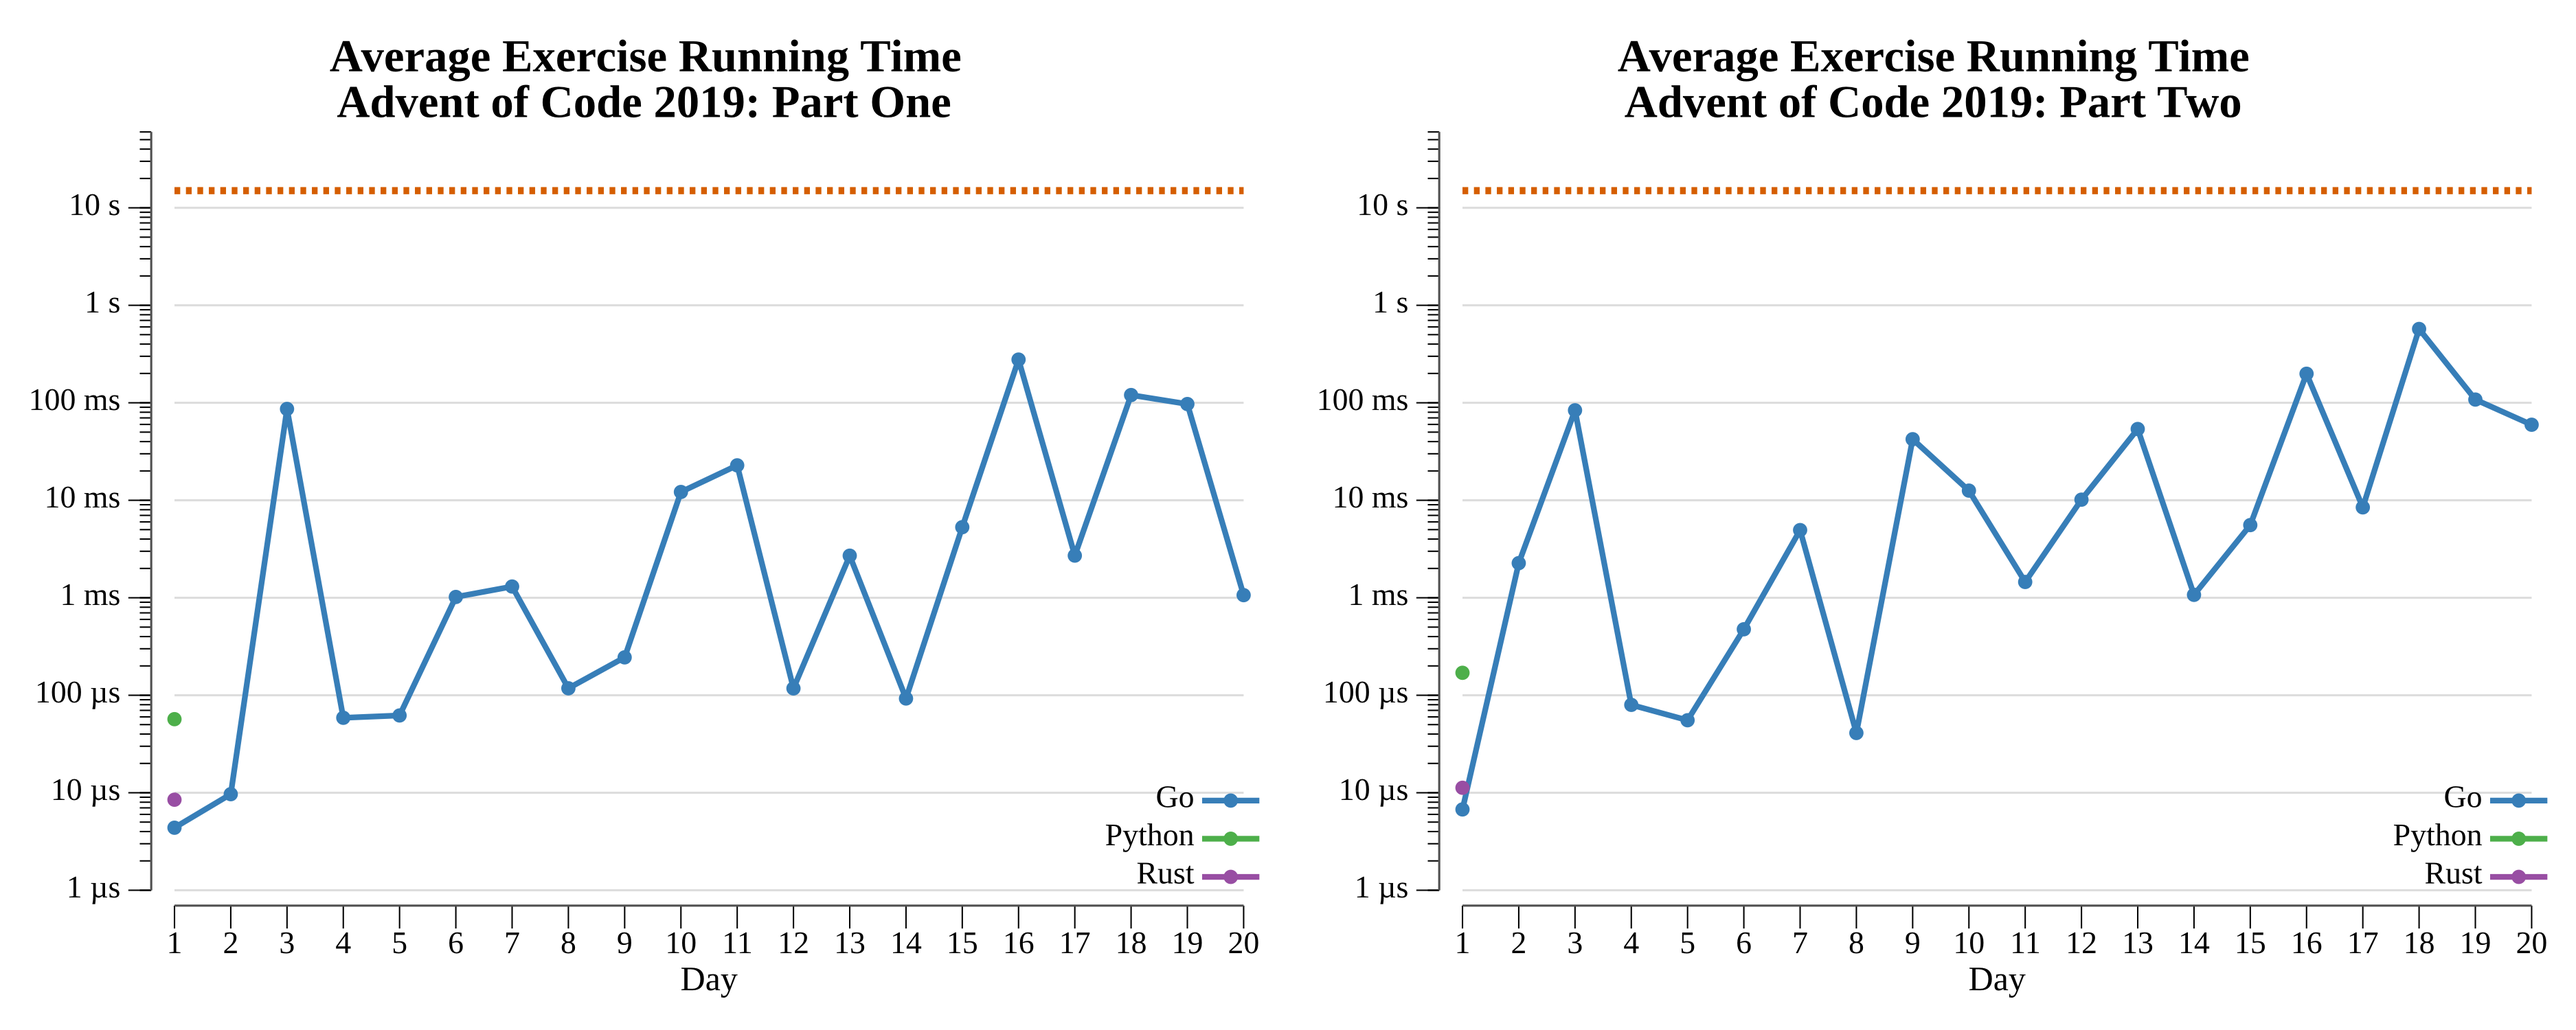
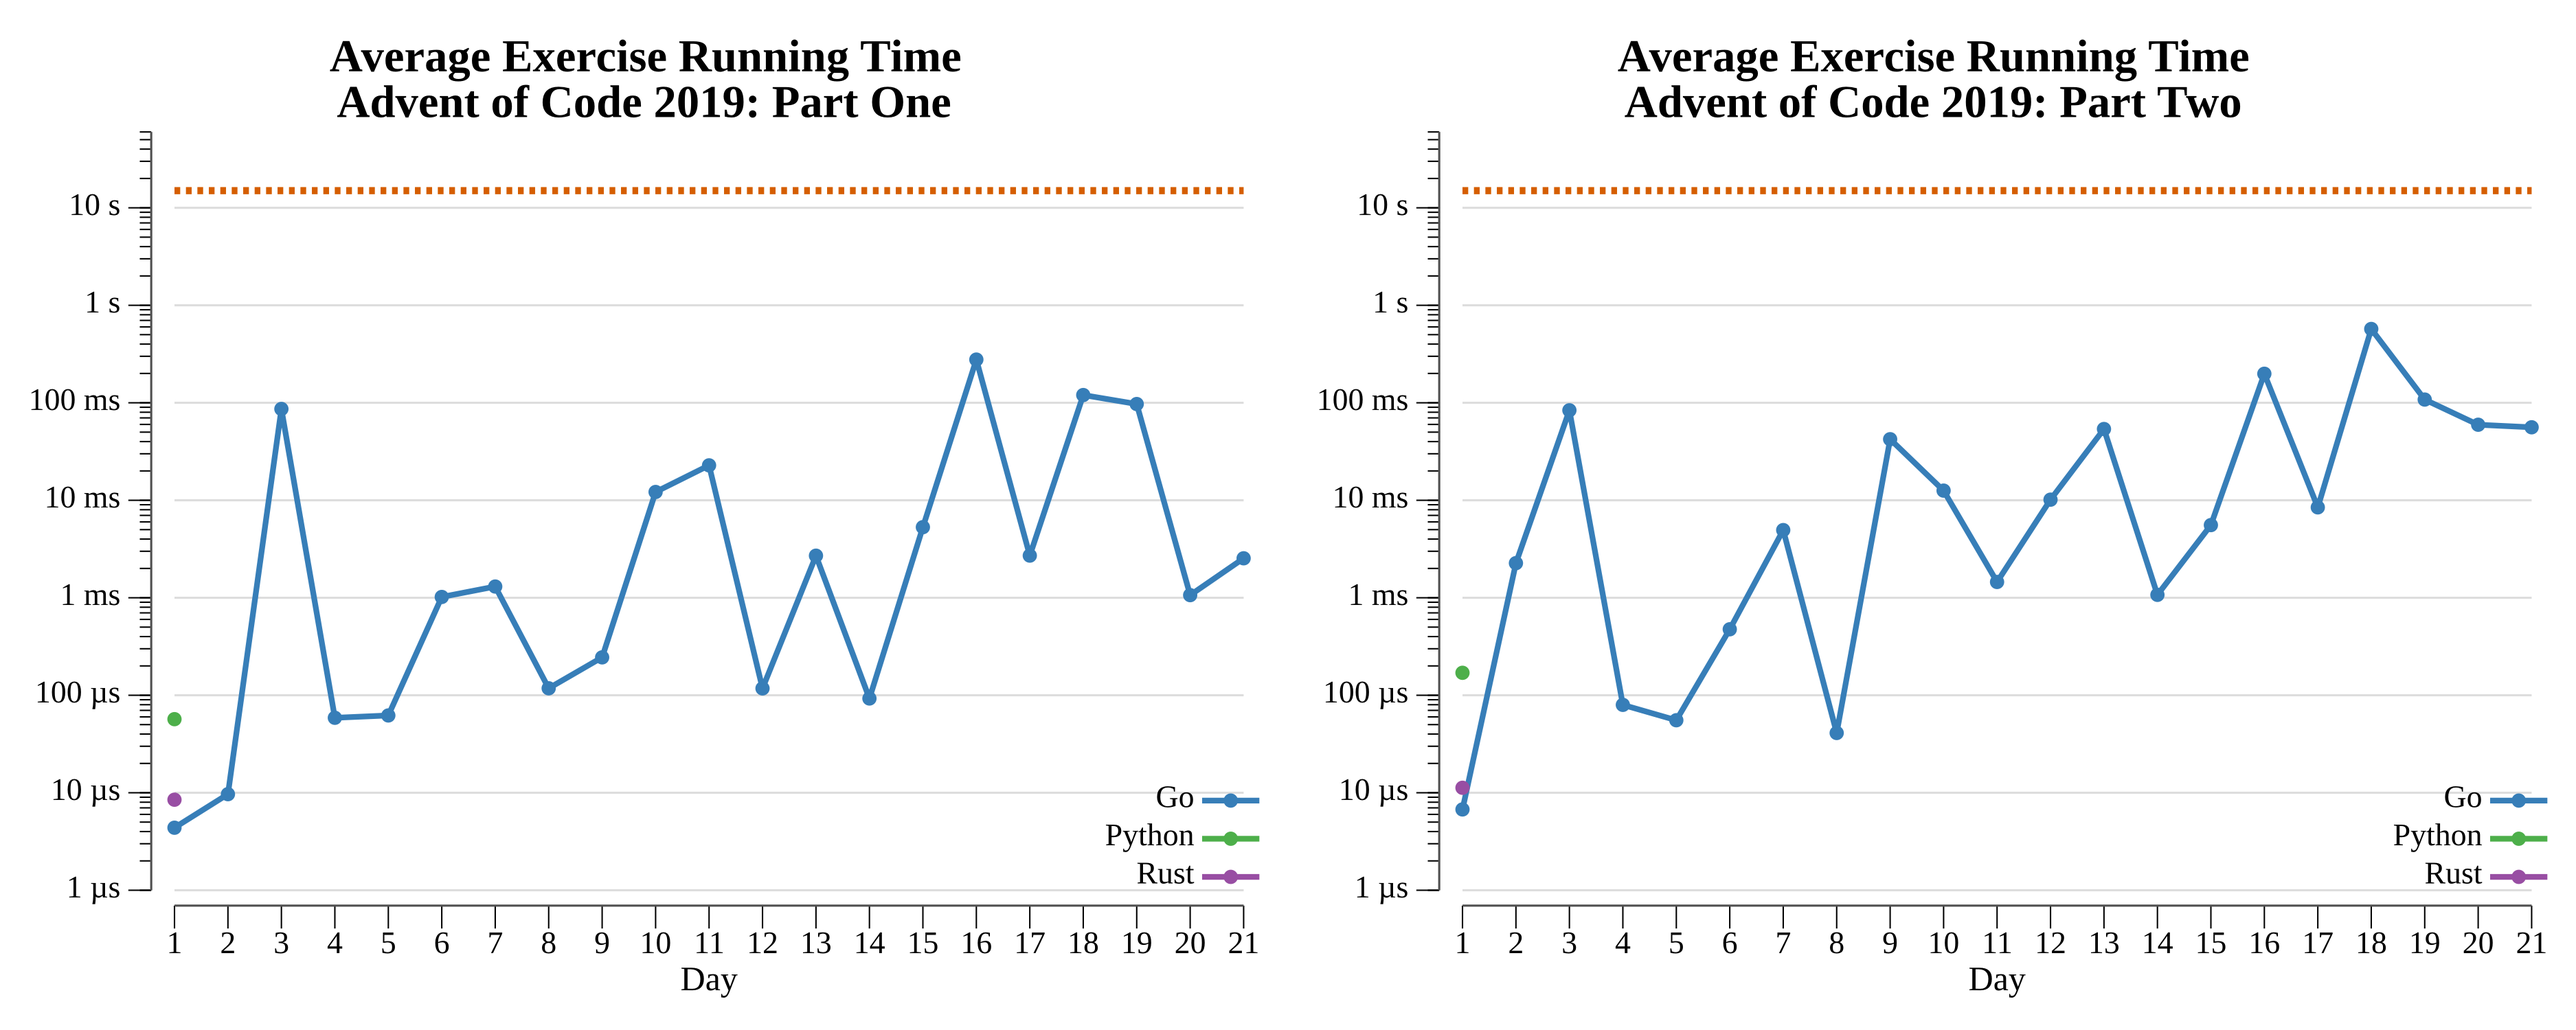
solve 2019 day 21 in go

diff --git a/exercises/2019/21-springdroidAdventure/go/exercise.go b/exercises/2019/21-springdroidAdventure/go/exercise.go
@@ -1,0 +1,189 @@
+package exercises
+
+import (
+	"strconv"
+	"strings"
+
+	"github.com/asphaltbuffet/advent-of-code/internal/common"
+)
+
+// Exercise for Advent of Code 2019 day 21.
+type Exercise struct {
+	common.BaseExercise
+}
+
+// mem is a map-backed unbounded memory for Intcode.
+type mem map[int]int
+
+func (m mem) get(addr int) int  { return m[addr] }
+func (m mem) set(addr, val int) { m[addr] = val }
+
+// parseProgram parses a comma-separated Intcode program into a mem map.
+func parseProgram(input string) mem {
+	m := make(mem)
+	for i, s := range strings.Split(strings.TrimSpace(input), ",") {
+		v, _ := strconv.Atoi(s)
+		m[i] = v
+	}
+
+	return m
+}
+
+// intcode runs an Intcode computer in a goroutine, sending all output to the out channel.
+//
+//nolint:gocognit,funlen // Intcode VM opcode dispatch is inherently complex
+func intcode(m mem, in <-chan int, out chan<- int) {
+	ip := 0
+	relBase := 0
+
+	param := func(offset, mode int) int {
+		raw := m.get(ip + offset)
+		switch mode {
+		case 0:
+			return m.get(raw)
+		case 1:
+			return raw
+		case 2:
+			return m.get(relBase + raw)
+		}
+		panic("unknown mode")
+	}
+
+	dest := func(offset, mode int) int {
+		raw := m.get(ip + offset)
+		switch mode {
+		case 0:
+			return raw
+		case 2:
+			return relBase + raw
+		}
+		panic("unknown dest mode")
+	}
+
+	for {
+		instr := m.get(ip)
+		op := instr % 100
+		m1 := (instr / 100) % 10
+		m2 := (instr / 1000) % 10
+		m3 := (instr / 10000) % 10
+
+		switch op {
+		case 1:
+			m.set(dest(3, m3), param(1, m1)+param(2, m2))
+			ip += 4
+		case 2:
+			m.set(dest(3, m3), param(1, m1)*param(2, m2))
+			ip += 4
+		case 3:
+			m.set(dest(1, m1), <-in)
+			ip += 2
+		case 4:
+			out <- param(1, m1)
+			ip += 2
+		case 5:
+			if param(1, m1) != 0 {
+				ip = param(2, m2)
+			} else {
+				ip += 3
+			}
+		case 6:
+			if param(1, m1) == 0 {
+				ip = param(2, m2)
+			} else {
+				ip += 3
+			}
+		case 7:
+			v := 0
+			if param(1, m1) < param(2, m2) {
+				v = 1
+			}
+
+			m.set(dest(3, m3), v)
+			ip += 4
+		case 8:
+			v := 0
+			if param(1, m1) == param(2, m2) {
+				v = 1
+			}
+
+			m.set(dest(3, m3), v)
+			ip += 4
+		case 9:
+			relBase += param(1, m1)
+			ip += 2
+		case 99:
+			close(out)
+			return
+		}
+	}
+}
+
+// runSpringscript sends an ASCII springscript program to the Intcode droid and
+// returns the last output value (the hull damage reading, or the error code if
+// the droid fell).
+func runSpringscript(prog mem, script string) int {
+	in := make(chan int, len(script))
+	out := make(chan int, 4096)
+
+	for _, ch := range script {
+		in <- int(ch)
+	}
+
+	go intcode(prog, in, out)
+
+	var last int
+
+	for v := range out {
+		last = v
+	}
+
+	return last
+}
+
+// One returns the answer to the first part of the exercise.
+// Strategy: jump if there is a hole in A, B, or C (unsafe to walk through)
+// AND D is solid (safe to land on).
+// Logic: J = (NOT A OR NOT B OR NOT C) AND D
+//
+// Springscript:
+//
+//	NOT A J   -- J = hole at A
+//	NOT B T   -- T = hole at B
+//	OR  T J   -- J = hole at A or B
+//	NOT C T   -- T = hole at C
+//	OR  T J   -- J = hole at A, B, or C
+//	AND D J   -- J = (hole ahead) AND D is solid
+//	WALK
+func (e Exercise) One(instr string) (any, error) {
+	script := "NOT A J\nNOT B T\nOR T J\nNOT C T\nOR T J\nAND D J\nWALK\n"
+	prog := parseProgram(instr)
+	result := runSpringscript(prog, script)
+
+	return result, nil
+}
+
+// Two returns the answer to the second part of the exercise.
+// Strategy: jump if there's a hole ahead (A, B, or C) AND D is solid to land on,
+// AND after landing we can either walk (E solid) OR jump again safely (H solid).
+// Logic: J = (NOT A OR NOT B OR NOT C) AND D AND (E OR H)
+//
+// Springscript:
+//
+//	NOT A J   -- J = hole at A
+//	NOT B T   -- T = hole at B
+//	OR  T J   -- J = hole at A or B
+//	NOT C T   -- T = hole at C
+//	OR  T J   -- J = hole at A, B, or C
+//	AND D J   -- J = (hole ahead) AND D solid
+//	NOT E T   -- T = NOT E
+//	NOT T T   -- T = E
+//	OR  H T   -- T = E OR H
+//	AND T J   -- J = J AND (E OR H)
+//	RUN
+func (e Exercise) Two(instr string) (any, error) {
+	script := "NOT A J\nNOT B T\nOR T J\nNOT C T\nOR T J\nAND D J\nNOT E T\nNOT T T\nOR H T\nAND T J\nRUN\n"
+	prog := parseProgram(instr)
+	result := runSpringscript(prog, script)
+
+	return result, nil
+}

diff --git a/exercises/2019/21-springdroidAdventure/README.md b/exercises/2019/21-springdroidAdventure/README.md
@@ -1,0 +1,73 @@
+# [Day 21: Springdroid Adventure](https://adventofcode.com/2019/day/21)
+
+<!-- These are helper text to make formatting the yearly readme consistent and easier...
+
+[Day 21: Springdroid Adventure][rm21]
+[Go][go21]
+
+[rm21]: 21-springdroidAdventure/README.md
+[go21]: 21-springdroidAdventure/go
+
+-->
+
+## Notes
+
+The input is an Intcode program running a springdroid. You supply a springscript program as ASCII over the Intcode's input channel; the droid either falls into a hole (returning a small ASCII error code) or crosses successfully (returning a large integer — the hull damage reading).
+
+Springscript has three instructions — `AND`, `OR`, `NOT` — operating on boolean registers. Readable registers are A–D (tiles 1–4 ahead) for Part One and A–I (tiles 1–9 ahead) for Part Two; T (temp) and J (jump) are writable. When J is true at the end of a step the droid jumps exactly 4 tiles.
+
+**Part One** uses `WALK` mode (registers A–D). The droid should jump when it cannot safely walk forward — a hole at A, B, or C — and only when landing on D is solid:
+
+```
+J = (¬A ∨ ¬B ∨ ¬C) ∧ D
+```
+
+Implemented as:
+
+```
+NOT A J
+NOT B T
+OR  T J
+NOT C T
+OR  T J
+AND D J
+WALK
+```
+
+**Part Two** uses `RUN` mode (registers A–I). The same condition applies, but we must also confirm that after landing on D we can continue: either E is solid (walk one step) or H is solid (jump again safely from D, landing 4 tiles further):
+
+```
+J = (¬A ∨ ¬B ∨ ¬C) ∧ D ∧ (E ∨ H)
+```
+
+The `E OR H` term is computed by negating E twice (to get E back into T) then OR-ing H:
+
+```
+NOT A J
+NOT B T
+OR  T J
+NOT C T
+OR  T J
+AND D J
+NOT E T
+NOT T T
+OR  H T
+AND T J
+RUN
+```
+
+## Go
+
+```text
+────────────────────────────────────────
+─  2019 Day 21: Springdroid Adventure  ─
+────────────────────────────────────────
+
+Solving (Go)…
+1.0:  PASS             2.333ms
+2.0:  PASS            52.045ms
+```
+
+## Run Times
+
+![Run Times](run-times.png)

diff --git a/exercises/2019/README.md b/exercises/2019/README.md
@@ -26,7 +26,7 @@
 | [Day 18: Many-Worlds Interpretation][rm_18]       |  ★ ★  | [Go][go_18] |
 | [Day 19: Tractor Beam][rm_19]                     |  ★ ★  | [Go][go19] |
 | [Day 20: Donut Maze][rm_20]                       |  ★ ★  | [Go][go20] |
-| 21                                                |  ☆ ☆  |                            |
+| [Day 21: Springdroid Adventure][rm21]             |  ★ ★  | [Go][go21] |
 | 22                                                |  ☆ ☆  |                            |
 | 23                                                |  ☆ ☆  |                            |
 | 24                                                |  ☆ ☆  |                            |
@@ -106,3 +106,6 @@ Day       Time    Rank  Score       Time    Rank  Score
 
 [rm_20]: 20-donutMaze/README.md
 [go20]: 20-donutMaze/go
+
+[rm21]: 21-springdroidAdventure/README.md
+[go21]: 21-springdroidAdventure/go
